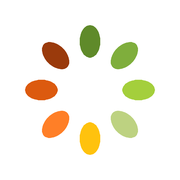
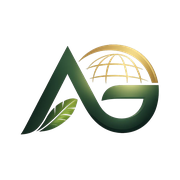
hjttps

Changed region(s): [[0.1111, 0.1389, 0.8889, 0.8611]]

diff --git a/client/src/lib/seo.js b/client/src/lib/seo.js
@@ -4,19 +4,19 @@ export const SITE = 'https://agriglobal.co.in';
 export const BRAND = 'Agri Global';
 
 const PAGES = {
-  '/': ['Agri Global | Buy & Sell Indian Rice Online | Trade Finance', 'Agri Global is a B2B marketplace to buy and sell Indian basmati and non-basmati rice, with verified partners, trade finance and the Africa – India – Middle East trade corridor.'],
-  '/marketplace': ['Buy Indian Rice Online: Basmati, PR 14, Sharbati, Sona Masoori', 'Browse 22 export-grade Indian rice varieties with live offers, grain specs and per-tonne prices. Post a requirement and get quotes from verified sellers.'],
+  '/': ['Agri Global | Global Agri Commodity Trade & Finance Platform', 'Agri Global is a global B2B marketplace to buy, sell and finance agricultural commodities, starting with rice, with verified partners and trade finance across Asia, Africa and the Middle East.'],
+  '/marketplace': ['Buy Rice Online: Basmati, PR 14, Sharbati, Sona Masoori', 'Browse 22 export-grade rice varieties with live offers, grain specs and per-tonne prices. Post a requirement and get quotes from verified sellers.'],
   '/finance': ['Trade Finance for Agri Exporters: LC, BG, SBLC & Invoice Financing', 'Compare trade finance quotes for letters of credit, bank guarantees, SBLCs and invoice financing from participating banks on Agri Global.'],
   '/lenders': ['For Banks & NBFCs: Agri Trade Finance Deal Flow', 'Reach verified agri-commodity traders and originate trade finance deals with AI-driven risk scoring on Agri Global.'],
   '/tools': ['Free Agri Trade Calculators & Counterparty Scorecards', 'Free rice export calculators, landed-cost tools and counterparty risk scorecards for buyers, sellers and traders.'],
   '/prompts': ['AI Prompts for Agri Trade, Sourcing & Finance', 'Ready-to-use AI prompts for sourcing rice, drafting offers, vetting counterparties and preparing trade finance requests.'],
-  '/partner': ['Become a Trade Partner | Agri Global', 'Partner with Agri Global to bring buyers, sellers and financiers onto the platform across the Africa – India – Middle East corridor.'],
+  '/partner': ['Become a Trade Partner | Agri Global', 'Partner with Agri Global to bring buyers, sellers and financiers onto the platform across our global trade corridor.'],
   '/join': ['Join Agri Global as a Buyer, Seller or Partner', 'Create a free account to buy rice, list your stock, or join as a partner, AgroPreneur or lender.'],
-  '/for-buyers': ['For Rice Buyers: Verified Indian Suppliers & Transparent Pricing', 'Source Indian rice from KYB-verified sellers with transparent pricing, digital documentation and optional trade finance.'],
+  '/for-buyers': ['For Rice Buyers: Verified Suppliers & Transparent Pricing', 'Source rice and agri commodities from KYB-verified sellers with transparent pricing, digital documentation and optional trade finance.'],
   '/for-sellers': ['For Rice Sellers & Exporters: Reach Global Buyers', 'List your rice, reach buyers across Africa and the Middle East, and get paid with trade finance support on Agri Global.'],
   '/agropreneur': ['AgroPreneurs: Empowering Women in Agri Trade', 'Agri Global’s AgroPreneur programme equips women entrepreneurs with market access, training and trade tools.'],
   '/platform': ['The Agri Global Platform: Marketplace, Finance & Intelligence', 'One platform for agri-commodity trading, trade finance, market intelligence and verified counterparties.'],
-  '/corridor': ['Africa – India – Middle East Digital Trade Corridor', 'Trade rice and grains across 30 countries in the Africa – India – Middle East digital trade corridor.'],
+  '/corridor': ['Global Digital Trade Corridor: Asia, Africa & Middle East', 'Trade rice and grains across 30 countries in the Asia – Africa – Middle East digital trade corridor.'],
   '/trust': ['Trust & Verification: KYB, KYC and AI Risk Scoring', 'How Agri Global verifies buyers and sellers with KYB and KYC checks and AI-driven risk scoring.'],
   '/fraud-prevention': ['Fraud Prevention in Agri Trade | Agri Global', 'Practical guidance and platform safeguards to avoid fraud in international agri-commodity trading.'],
   '/technology': ['Technology: AI-Driven Agri Trade Platform', 'The technology behind Agri Global: AI-driven matching, risk scoring, digital documentation and market intelligence.'],
@@ -26,7 +26,7 @@ const PAGES = {
   '/manifesto': ['Our Manifesto: The Future of Agriculture Is the System', 'Why Agri Global believes the future of agriculture is not just in the soil, but in the system.'],
   '/sustainability': ['Sustainability | Agri Global', 'How Agri Global supports sustainable, fair and inclusive agri trade for farmers and traders.'],
   '/livelihood': ['Farmer Livelihoods | Agri Global', 'Improving farmer livelihoods through fair market access and transparent pricing.'],
-  '/contact': ['Contact Agri Global | Ahmedabad, India', 'Get in touch with Agri Global to buy or sell rice, request a quote or discuss trade finance. Registered office in Ahmedabad, Gujarat.'],
+  '/contact': ['Contact Agri Global', 'Get in touch with Agri Global to buy or sell rice, request a quote or discuss trade finance. Registered office in Ahmedabad, Gujarat.'],
   '/documents': ['Company Registrations & Certificates | Agri Global', 'Registration details and certificates of Agrimaati Ecosystem Private Limited, which develops Agri Global.'],
   '/privacy': ['Privacy Policy | Agri Global', 'How Agri Global collects, uses and protects your personal data.'],
   '/terms': ['Terms & Conditions | Agri Global', 'The terms for using the Agri Global platform.'],
@@ -62,7 +62,7 @@ export function seoFor(path) {
 export function productSeo(p) {
   const kind = p.family === 'Basmati' ? 'Basmati' : 'Non-Basmati';
   return {
-    title: `${p.name} Export from India | ${kind} Rice ${p.grain?.length ? `${Number(p.grain.length).toFixed(2)} mm ` : ''}| ${BRAND}`.replace(/\s+\|/g, ' |'),
+    title: `${p.name} Export | ${kind} Rice ${p.grain?.length ? `${Number(p.grain.length).toFixed(2)} mm ` : ''}| ${BRAND}`.replace(/\s+\|/g, ' |'),
     description: `Buy ${p.name} (${kind}, ${p.processing}) from India. ${p.grain?.length ? `Average grain length ${Number(p.grain.length).toFixed(2)} mm, ` : ''}under ${p.grain?.broken ?? 2}% broken. FOB, CIF and CNF offers from verified exporters on ${BRAND}.`,
     path: `/rice/${p.slug}`,
   };

diff --git a/client/src/pages/Home.jsx b/client/src/pages/Home.jsx
@@ -51,12 +51,12 @@ export default function Home() {
   const shown = items.filter((p) => inGroup(p, fam)).slice(0, 4);
 
   const strip = [
-    ['leaf', items.length, '', 'Rice varieties'], ['globe', corridor.value, '', 'AIM countries'], ['people', ROLES.length, '', 'Stakeholder types'],
+    ['leaf', items.length, '', 'Rice varieties'], ['globe', corridor.value, '', 'Corridor countries'], ['people', ROLES.length, '', 'Stakeholder types'],
     ['calc', CALCS.length + SCORES.length, '', 'Free tools'], ['spark', PROMPTS.length, '', 'AI prompt templates'], ['sprout', women.value, women.suffix || 'M', 'Women AgroPreneurs (target)'],
   ];
   const audience = [
-    ['For Buyers', 'cart', 'Source verified Indian rice with transparent pricing & finance.', '/join?role=buyer', 'port', 'port'],
-    ['For Sellers', 'store', 'Access global buyers and get pre/post-shipment finance.', '/join?role=seller', 'sellers', 'rice'],
+    ['For Buyers', 'cart', 'Source verified agri commodities from trusted origins, with transparent pricing & finance.', '/join?role=buyer', 'port', 'port'],
+    ['For Sellers', 'store', 'Reach buyers in every region and get pre/post-shipment finance.', '/join?role=seller', 'sellers', 'rice'],
     ['For Global Partners', 'handshake', 'Own the buyer relationship and earn 25–40.5% margin.', '/partner', 'partners', 'people'],
     ['For AgroPreneurs', 'sprout', 'Aggregate from farmers, get training, finance and market linkage.', '/join?role=agropreneur', 'agropreneur', 'people'],
   ];
@@ -68,23 +68,23 @@ export default function Home() {
         <div className="hero-map">
           <Suspense fallback={null}><SatelliteMap /></Suspense>
           {/* on phones the map sits in the middle of the page, so the AIM card lives on it (the desktop card is hidden there) */}
-          <div className="aim aim-m"><Icon n="globe" size={34} /><div><b>AIM Corridor</b><span>India ↔ Africa ↔ Middle East</span><small>{corridor.value} Countries • Growing</small></div></div>
+          <div className="aim aim-m"><Icon n="globe" size={34} /><div><b>Global Corridor</b><span>Asia ↔ Africa ↔ Middle East</span><small>{corridor.value} Countries • Growing</small></div></div>
         </div>
         <Photo name="hero-port" scene="port" alt="" className="hero-port" />
         <div className="hero-in">
           <div className="hero-copy2">
             <p className="kick">The AI-Powered Global Agri Trade &amp; Finance Platform</p>
-            <h1>From Indian Farms to Global Markets</h1>
-            <p className="sub">Trade, Finance, Source and Grow — all in one platform for agricultural commodities, starting with Indian Rice.</p>
+            <h1>Global Agri Trade, Simplified.</h1>
+            <p className="sub">Source, trade, finance and grow: one trusted platform connecting farmers, exporters, buyers and banks worldwide. Starting with rice, expanding to grains, pulses, spices and oilseeds.</p>
             <div className="cta-row">
               <Link to="/marketplace" className="hbtn solid">Explore Marketplace<Icon n="arrow" size={18} /></Link>
               <Link to="/join?role=partner" className="hbtn light">Join as Partner</Link>
             </div>
             <ul className="checks"><li><Icon n="check" size={14} />Verified Buyers &amp; Sellers</li><li><Icon n="check" size={14} />Trade Finance (LC, BG, SBLC)</li><li><Icon n="check" size={14} />End-to-End Trade Support</li></ul>
           </div>
-          <div className="hero-woman"><Photo name="hero-woman" scene="people" tone="woman" alt="Smiling woman farmer holding freshly harvested rice" /></div>
+          <div className="hero-woman"><Photo name="hero-woman" scene="people" tone="woman" alt="Woman farmer tending a young green rice crop" /></div>
         </div>
-        <div className="aim"><Icon n="globe" size={34} /><div><b>AIM Corridor</b><span>India ↔ Africa ↔ Middle East</span><small>{corridor.value} Countries • Growing</small></div></div>
+        <div className="aim"><Icon n="globe" size={34} /><div><b>Global Corridor</b><span>Asia ↔ Africa ↔ Middle East</span><small>{corridor.value} Countries • Growing</small></div></div>
       </section>
 
       <Finder />
@@ -151,13 +151,13 @@ export default function Home() {
           <Link to="/tools?tool=trust" className="sc"><Icon n="check" size={26} /><div><h3>Trust Score</h3><p>A clear, explainable view of who you’re trading with.</p></div><span>Assess your Trust Score →</span></Link>
           <Link to="/tools?tool=credit" className="sc"><Icon n="bank" size={26} /><div><h3>Credit Score</h3><p>A transparent view of trade-level financial readiness.</p></div><span>Assess your Credit Score →</span></Link>
         </div>
-        <p className="accred">Accredited by <b>DPIIT</b>, <b>MCA</b> and India’s oldest chambers of commerce: <b>ICC</b> and <b>SGCCI</b>.</p>
+        <p className="accred">Recognised by <b>DPIIT</b>, <b>MCA</b> and leading chambers of commerce: <b>ICC</b> and <b>SGCCI</b>.</p>
       </section>
 
       <section className="mission">
         <Icon n="sprout" size={44} />
         <h2>Our Mission</h2>
-        <p>Empower 1 Million Women AgroPreneurs <i>•</i> Build a Trusted AIM Trade Corridor <i>•</i> Make Agri Trade Simple, Inclusive &amp; Transparent.</p>
+        <p>Empower 1 Million Women AgroPreneurs <i>•</i> Build a Trusted Global Trade Corridor <i>•</i> Make Agri Trade Simple, Inclusive &amp; Transparent.</p>
         <Link to="/join?role=agropreneur" className="hbtn light">Learn About Our Impact<Icon n="arrow" size={16} /></Link>
       </section>
     </>

diff --git a/client/index.html b/client/index.html
@@ -3,30 +3,31 @@
   <head>
     <meta charset="UTF-8" />
     <meta name="viewport" content="width=device-width, initial-scale=1.0, viewport-fit=cover" />
-    <meta name="theme-color" content="#1d6b3a" />
-    <meta name="description" content="Agri Global is a B2B marketplace to buy and sell Indian basmati and non-basmati rice, with verified partners, trade finance and the Africa – India – Middle East trade corridor." />
-    <meta name="keywords" content="buy rice online, Indian basmati rice exporters, rice export India, 1121 basmati, PR 14 rice, sona masoori, parboiled rice, agri trade finance, B2B rice marketplace" />
+    <meta name="theme-color" content="#1f5a34" />
+    <meta name="description" content="Agri Global is a global B2B marketplace to buy, sell and finance agricultural commodities, starting with rice, with verified partners and trade finance across Asia, Africa and the Middle East." />
+    <meta name="keywords" content="buy rice online, global agri commodity marketplace, basmati rice exporters, rice export, 1121 basmati, PR 14 rice, sona masoori, parboiled rice, agri trade finance, B2B rice marketplace" />
     <meta name="robots" content="index, follow, max-image-preview:large" />
     <meta name="author" content="Agrimaati Ecosystem Private Limited" />
     <link rel="canonical" href="https://agriglobal.co.in/" />
     <meta property="og:type" content="website" />
     <meta property="og:site_name" content="Agri Global" />
     <meta property="og:locale" content="en_IN" />
-    <meta property="og:title" content="Agri Global | Buy & Sell Indian Rice Online | Trade Finance" />
-    <meta property="og:description" content="B2B marketplace for Indian basmati and non-basmati rice, with verified partners and trade finance." />
+    <meta property="og:title" content="Agri Global | Global Agri Commodity Trade & Finance Platform" />
+    <meta property="og:description" content="Global B2B marketplace for agricultural commodities, starting with rice. Verified partners and trade finance." />
     <meta property="og:url" content="https://agriglobal.co.in/" />
     <meta property="og:image" content="https://agriglobal.co.in/images/hero-woman.jpg" />
     <meta name="twitter:card" content="summary_large_image" />
-    <meta name="twitter:title" content="Agri Global | Buy & Sell Indian Rice Online" />
-    <meta name="twitter:description" content="B2B marketplace for Indian basmati and non-basmati rice, with verified partners and trade finance." />
+    <meta name="twitter:title" content="Agri Global | Global Agri Commodity Trade & Finance" />
+    <meta name="twitter:description" content="Global B2B marketplace for agricultural commodities, starting with rice. Verified partners and trade finance." />
     <meta name="twitter:image" content="https://agriglobal.co.in/images/hero-woman.jpg" />
-    <script type="application/ld+json">{"@context":"https://schema.org","@graph":[{"@type":"Organization","@id":"https://agriglobal.co.in/#org","name":"Agri Global","legalName":"Agrimaati Ecosystem Private Limited","url":"https://agriglobal.co.in/","logo":"https://agriglobal.co.in/icon-512.png","address":{"@type":"PostalAddress","streetAddress":"204, Saumya Square, Nr. Govardhan Party Plot, Thaltej, Daskroi","addressLocality":"Ahmedabad","addressRegion":"Gujarat","postalCode":"380059","addressCountry":"IN"}},{"@type":"WebSite","@id":"https://agriglobal.co.in/#site","url":"https://agriglobal.co.in/","name":"Agri Global","publisher":{"@id":"https://agriglobal.co.in/#org"}}]}</script>
-    <link rel="icon" type="image/svg+xml" href="/favicon.svg" />
+    <script type="application/ld+json">{"@context":"https://schema.org","@graph":[{"@type":"Organization","@id":"https://agriglobal.co.in/#org","name":"Agri Global","legalName":"Agrimaati Ecosystem Private Limited","url":"https://agriglobal.co.in/","logo":"https://agriglobal.co.in/logo-mark.png","address":{"@type":"PostalAddress","streetAddress":"204, Saumya Square, Nr. Govardhan Party Plot, Thaltej, Daskroi","addressLocality":"Ahmedabad","addressRegion":"Gujarat","postalCode":"380059","addressCountry":"IN"}},{"@type":"WebSite","@id":"https://agriglobal.co.in/#site","url":"https://agriglobal.co.in/","name":"Agri Global","publisher":{"@id":"https://agriglobal.co.in/#org"}}]}</script>
+    <link rel="icon" href="/favicon.ico" sizes="48x48" />
+    <link rel="icon" type="image/png" href="/favicon.png" sizes="96x96" />
     <link rel="apple-touch-icon" href="/apple-touch-icon.png" />
     <link rel="preconnect" href="https://fonts.googleapis.com" />
     <link rel="preconnect" href="https://fonts.gstatic.com" crossorigin />
     <link href="https://fonts.googleapis.com/css2?family=Plus+Jakarta+Sans:wght@300;400;500;600;700;800&family=JetBrains+Mono:wght@400;600&display=swap" rel="stylesheet" />
-    <title>Agri Global | Buy &amp; Sell Indian Rice Online | Trade Finance</title>
+    <title>Agri Global | Global Agri Commodity Trade &amp; Finance Platform</title>
   </head>
   <body>
     <div id="root"></div>

diff --git a/client/src/lib/content.js b/client/src/lib/content.js
@@ -36,7 +36,7 @@ export const ABOUT = {
   ],
   vision: [
     'To build the world’s most trusted agri-trade infrastructure: one that connects markets, unlocks finance and uplifts communities.',
-    'As we expand across India, the Middle East, Africa and key trade corridors, our focus stays clear: empower businesses, enable global trade, and create opportunities for millions of farmers and women entrepreneurs.',
+    'As we expand across Asia, the Middle East, Africa and key trade corridors worldwide, our focus stays clear: empower businesses, enable global trade, and create opportunities for millions of farmers and women entrepreneurs.',
   ],
 };
 
@@ -246,7 +246,7 @@ export const AGRO = {
     ['What support will I get to set up my business?', 'End-to-end support: business model development, regulatory compliance guidance, access to suppliers, branding and go-to-market strategy.'],
     ['How will I find buyers?', 'Through our market-linkage platform you are connected to domestic and international buyers, with help networking with wholesalers, retailers and institutional buyers.'],
   ],
-  note: 'If you are outside India and want to sell through us, join as a Global Trading Partner.',
+  note: 'If you are outside our home market and want to sell through us, join as a Global Trading Partner.',
 };
 
 // ---- Finance ----
@@ -308,7 +308,7 @@ export const RICE = {
     ['Is this rice suitable for export?', 'Yes. It is sourced from ISO and HACCP-compliant mills and inspected to export-quality standards.'],
     ['Are bulk and private-label options available?', 'Yes. Customised packaging and branding are available for bulk orders.'],
     ['Can I request samples before a bulk order?', 'Yes. Use the request form on this page and mention that you need samples.'],
-    ['Which regions import Indian steam rice the most?', 'The Middle East, Africa, Europe and North America are major importers.'],
+    ['Which regions import steam rice the most?', 'The Middle East, Africa, Europe and North America are major importers.'],
   ],
 };
 
@@ -364,11 +364,32 @@ export const REGISTRY = { SETTINGS, COMPANY, ABOUT, WHY, TEAM, MANIFESTO, SUSTAI
 // Snapshot of the built-in text, taken before any admin overrides are applied.
 export const DEFAULTS = JSON.parse(JSON.stringify(REGISTRY));
 
-// Catalogue photos (Wikimedia Commons, CC licensed; see public/images/products/CREDITS.txt).
+// Catalogue photos (Wikimedia Commons, CC licensed; see public/images/products/CREDITS.txt). One per variety, shared only where the pool runs out.
+const PRODUCT_IMAGES = {
+  "1121-steam-basmati-rice-8-35-mm": "basmati-pot",
+  "1121-golden-sella-basmati-rice-8-35-mm": "parboiled",
+  "1121-white-sella-basmati-rice-8-35-mm": "basmati-bowl",
+  "1509-steam-basmati-rice-8-40-mm": "longgrain",
+  "1509-golden-sella-basmati-rice-8-40-mm": "steam-yellow",
+  "1509-white-sella-basmati-rice-8-40-mm": "basmati-field",
+  "1718-steam-basmati-rice-8-40-mm": "jasmine",
+  "1718-golden-sella-basmati-rice-8-35-mm": "parboiled",
+  "1718-white-sella-basmati-rice-8-35-mm": "longgrain",
+  "1401-steam-basmati-rice-7-70-mm": "basmati-pot",
+  "1401-white-sella-basmati-rice-7-70-mm": "basmati-bowl",
+  "pr-14-steam-6-90-mm": "longgrain",
+  "pr-14-white-sella-6-90-mm": "basmati-field",
+  "pr-14-golden-sella-6-80-mm": "steam-yellow",
+  "sharbati-steam-7-10-mm": "jasmine",
+  "sharbati-raw-7-10-mm": "longgrain",
+  "sharbati-white-sella-7-10-mm": "longgrain",
+  "sharbati-golden-sella-7-00-mm": "parboiled",
+  "sugandha-steam-rice-7-90-mm": "basmati-pot",
+  "sugandha-white-sella-7-90-mm": "basmati-bowl",
+  "sugandha-golden-sella-7-85-mm": "steam-yellow",
+  "sona-masoori-steam-5-20-mm": "sona-masoori"
+};
 export function productImage(p) {
-  const s = p.slug || '';
-  if (s.startsWith('sona-masoori')) return 'products/sona-masoori';
-  if (p.processing === 'Golden Sella') return 'products/parboiled';
-  if (p.family === 'Basmati') return s.startsWith('1121') || s.startsWith('1401') ? 'products/basmati-raw' : 'products/basmati-india';
-  return p.processing === 'Raw' ? 'products/closeup' : 'products/parboiled';
+  const f = PRODUCT_IMAGES[p.slug] || (p.processing === 'Golden Sella' ? 'steam-yellow' : p.family === 'Basmati' ? 'basmati-pot' : 'longgrain');
+  return `products/${f}`;
 }

diff --git a/client/src/index.css b/client/src/index.css
@@ -750,3 +750,31 @@ input:focus, textarea:focus, select:focus { outline: none; border-color: var(--g
 .rd-stats { display: grid; grid-template-columns: repeat(auto-fit, minmax(120px, 1fr)); gap: 12px; margin-bottom: 18px; }
 .rd-stats div { padding: 14px 16px; border-radius: 14px; background: var(--g3); }
 .rd-stats b { display: block; font-size: 1.7rem; line-height: 1.1; color: var(--g); }
+
+/* ---------- brand refresh: deep forest green + gold, taken from the new logo ---------- */
+:root {
+  --bg: #f6f8f3; --ink: #10281b; --g: #1f5a34; --g2: #143d24; --g3: #e8f0e5; --gold: #c9a24a; --gold2: #e2c26f;
+  --shadow: 0 1px 2px rgba(16, 40, 27, .06), 0 12px 32px rgba(16, 40, 27, .09);
+}
+body { letter-spacing: -.005em; }
+h1, h2, h3 { letter-spacing: -.025em; }
+.hdr { background: rgba(255, 255, 255, .86); backdrop-filter: saturate(1.4) blur(18px); border-bottom: 1px solid rgba(16, 40, 27, .08); }
+.logo .lg b { font-weight: 800; letter-spacing: .14em; font-size: 1.28rem; color: var(--g2); }
+.logo .lg i { font-weight: 600; letter-spacing: .32em; font-size: .62rem; text-transform: uppercase; margin: 4px 0 0 .1em; color: var(--gold); }
+.logo svg, .logo img { width: 44px; height: 44px; }
+.hdr .logo img { width: 42px; height: 42px; }
+.cta, .hbtn.solid { background: linear-gradient(135deg, var(--g) 0%, var(--g2) 100%); box-shadow: 0 6px 18px rgba(31, 90, 52, .28); }
+.cta:hover, .hbtn.solid:hover { background: linear-gradient(135deg, #256b3e 0%, var(--g2) 100%); }
+.hbtn, .btn, .cta, .login { border-radius: 999px; }
+.hbtn.light { background: rgba(255, 255, 255, .9); backdrop-filter: blur(6px); }
+.kick { display: inline-block; padding: 6px 14px; border-radius: 999px; background: rgba(201, 162, 74, .16); color: #7a5d17; font-size: .8rem; letter-spacing: .06em; text-transform: uppercase; }
+.hero-copy2 h1 { font-size: clamp(2.5rem, 4.2vw, 3.9rem); line-height: 1.02; background: linear-gradient(180deg, var(--g2), var(--g)); -webkit-background-clip: text; background-clip: text; color: transparent; }
+.hero2::after { background: linear-gradient(90deg, rgba(246, 248, 243, .94) 0%, rgba(246, 248, 243, .6) 40%, transparent 64%); }
+.spec, .vcard, .acard, .panelx, .t3, .sc { border: 1px solid rgba(16, 40, 27, .07); border-radius: 20px; transition: transform .35s cubic-bezier(.2, .7, .2, 1), box-shadow .35s; }
+.spec:hover, .vcard:hover, .acard:hover { transform: translateY(-6px); box-shadow: 0 2px 4px rgba(16, 40, 27, .06), 0 24px 48px rgba(16, 40, 27, .16); }
+.spec-ph { border-radius: 20px 20px 0 0; } .spec-ph img { transition: transform .6s cubic-bezier(.2, .7, .2, 1); } .spec:hover .spec-ph img { transform: scale(1.06); }
+.hot { color: var(--g); }
+.strip { border-top: 3px solid var(--gold); }
+.tag, .itag { color: var(--gold); letter-spacing: .18em; font-weight: 800; }
+.foot { background: linear-gradient(180deg, #123422, #0b2216); }
+@media (prefers-reduced-motion: reduce) { * { transition: none !important; animation: none !important; } }

diff --git a/client/src/pages/Platform.jsx b/client/src/pages/Platform.jsx
@@ -25,7 +25,7 @@ export function Corridor() {
         <div className="icards" style={{ '--cols': 4 }}>{DTC.pillars.map(([t, items]) => <Reveal key={t} className="icard"><h3>{t}</h3><Checks items={items} /></Reveal>)}</div>
       </Sec>
       <Sec tag="THE TRUST ARCHITECTURE" title="Six ideas, one system."><Cards items={DTC.terms} /></Sec>
-      <Sec alt tag="AFRICA · INDIA · MIDDLE EAST" title="One trade corridor." lede={`The AIM corridor lists ${unique.length} countries in the Middle East and Africa, plus India.`}>
+      <Sec alt tag="AFRICA · INDIA · MIDDLE EAST" title="One trade corridor." lede={`The AIM corridor lists ${unique.length} countries in the Middle East and Africa, plus India, our first sourcing hub.`}>
         <div className="two">
           <Reveal className="panelx"><h3>Middle East ({CORRIDOR.middleEast.length})</h3><p className="tags">{CORRIDOR.middleEast.map((c) => <span key={c}>{c}</span>)}</p></Reveal>
           <Reveal className="panelx"><h3>Africa ({CORRIDOR.africa.length})</h3><p className="tags">{CORRIDOR.africa.map((c) => <span key={c}>{c}</span>)}</p></Reveal>
@@ -112,7 +112,7 @@ export function Agropreneur() {
     <>
       <Hero tag="AGROPRENEUR PROGRAM" title="Your gateway to global markets." lede="We simplify the challenges of selling agricultural commodities with trusted global connections. Learn agricultural entrepreneurship with our 2-month free training." actions={[['Sign up', '/join?role=agropreneur'], ['Export income calculator', '/tools?tool=export', true]]} />
       <Sec tag="WHAT YOU GET" title="Training, setup and funding."><Cards items={AGRO.features} /></Sec>
-      <Sec alt tag="FOR YOU?" title="Join India’s export revolution." lede="Sell your local produce globally, store and process it, and become an agricultural exporter. The program is built for women entrepreneurs in agriculture."><p className="note">{AGRO.note}</p></Sec>
+      <Sec alt tag="FOR YOU?" title="Join the global export revolution." lede="Sell your local produce globally, store and process it, and become an agricultural exporter. The program is built for women entrepreneurs in agriculture."><p className="note">{AGRO.note}</p></Sec>
       <Sec tag="FAQ" title="Frequently asked questions."><FAQ items={AGRO.faq} /></Sec>
       <Band title="Sell your local produce globally." actions={[['Join as an AgroPreneur', '/join?role=agropreneur']]} />
     </>

diff --git a/client/src/lib/data.js b/client/src/lib/data.js
@@ -33,7 +33,7 @@ export const PROMPTS = [
   ['Finance', 'LC checklist', 'List the documents and checks needed for a letter of credit on a rice export of {amount} USD to {country}. Flag the most common discrepancies that cause rejection.'],
   ['Finance', 'Explain LC vs SBLC', 'Explain in plain language when a rice exporter should use an LC versus a standby LC (SBLC), with costs, risks and a recommendation for a {amount} USD, {tenor}-day deal.'],
   ['Finance', 'Pre-shipment finance pitch', 'Draft a one-page request to an NBFC for pre-shipment finance of {amount} USD against a confirmed order from {buyer}. Include deal summary, repayment source and risk mitigants.'],
-  ['Partner', 'Intro to local buyers', 'Write a short WhatsApp message in {language} from a trading partner introducing Indian {variety} rice to a wholesaler in {country}, with a call to action for samples.'],
+  ['Partner', 'Intro to local buyers', 'Write a short WhatsApp message in {language} from a trading partner introducing {variety} rice to a wholesaler in {country}, with a call to action for samples.'],
   ['Partner', 'Margin explainer', 'Explain to a new trading partner how a {margin}% deal margin on {volume} USD monthly volume turns into earnings at a {share}% share, using a worked example.'],
   ['Operations', 'Shipment document check', 'Review this document list for a rice shipment to {country}: {paste list}. Identify missing or inconsistent items (BL, phyto, CoO, fumigation, packing list, invoice).'],
   ['Operations', 'Quality dispute response', 'A buyer reports {issue} on a {quantity} MT shipment of {variety}. Draft a calm, factual response asking for lab reports and photos, and outlining the claim process.'],

diff --git a/client/src/pages/Auth.jsx b/client/src/pages/Auth.jsx
@@ -5,7 +5,7 @@ import { Icon, Photo } from '../components/Art.jsx';
 import { LogoMark } from '../components/Logo.jsx';
 
 const ROLES = [
-  ['buyer', 'Buyer', 'cart', 'Source verified rice from India with transparent pricing.'],
+  ['buyer', 'Buyer', 'cart', 'Source verified agri commodities from trusted origins with transparent pricing.'],
   ['seller', 'Seller', 'store', 'List offers and sell to verified global buyers.'],
   ['partner', 'Partner', 'handshake', 'Own the buyer relationship in your country and share the margin.'],
   ['agropreneur', 'AgroPreneur', 'sprout', 'Aggregate supply from farmers, with free training and funding.'],
@@ -97,7 +97,7 @@ export default function Auth() {
             <ul>
               <li><Icon n="shield" size={20} />Every buyer and seller is verified before they trade</li>
               <li><Icon n="bank" size={20} />Compare finance quotes from banks and NBFCs</li>
-              <li><Icon n="globe" size={20} />The Africa – India – Middle East corridor, in one place</li>
+              <li><Icon n="globe" size={20} />A global agri trade corridor, in one place</li>
             </ul>
             <p className="proof">Accredited by DPIIT and the ICC and SGCCI chambers of commerce</p>
           </div>

diff --git a/client/src/components/Logo.jsx b/client/src/components/Logo.jsx
@@ -1,18 +1,7 @@
 import { Link } from 'react-router-dom';
 
-// Eight grains in a ring, clockwise from the top.
-const COLORS = ['#5f8a2a', '#7fae3c', '#a4cf3c', '#bdd281', '#ffc20e', '#ff7f27', '#dc5a0f', '#9a3a0c'];
-
 export function LogoMark({ size = 38 }) {
-  return (
-    <svg viewBox="0 0 100 100" width={size} height={size} aria-hidden>
-      {COLORS.map((c, i) => {
-        const a = i * 45, r = (a * Math.PI) / 180;
-        const cx = 50 + 37.5 * Math.sin(r), cy = 50 - 37.5 * Math.cos(r);
-        return <ellipse key={i} cx={cx} cy={cy} rx="7.9" ry="12.5" fill={c} transform={`rotate(${a} ${cx} ${cy})`} />;
-      })}
-    </svg>
-  );
+  return <img src="/logo-mark.png" width={size} height={size} alt="" aria-hidden="true" decoding="async" style={{ display: 'block', objectFit: 'contain' }} />;
 }
 
 export function Logo({ to = '/' }) {

diff --git a/client/src/pages/Company.jsx b/client/src/pages/Company.jsx
@@ -32,7 +32,7 @@ export function WhyUs() {
       <Sec tag="VALUE FOR EVERY ROLE" title="Why buyers, sellers, partners & banks choose us.">
         <div className="two">{WHY.roles.map(([r, items]) => <Reveal key={r} className="panelx"><h3>{r}</h3><Checks items={items} /></Reveal>)}</div>
       </Sec>
-      <Sec alt tag="BACKED BY EXCELLENCE" title="Accredited by India’s oldest and most influential chambers of commerce.">
+      <Sec alt tag="BACKED BY EXCELLENCE" title="Backed by some of the oldest and most influential chambers of commerce.">
         <Cards items={WHY.chambers} cols={2} />
       </Sec>
       <Band title="Trust is not assumed here. It’s engineered." actions={[['Trade with trust', '/marketplace'], ['See our trust framework', '/trust', true]]} />

diff --git a/client/src/components/Header.jsx b/client/src/components/Header.jsx
@@ -47,7 +47,7 @@ const MENU = [
   ]],
   ['Platform', [
     ['Overview', '/platform', 'spark', 'Trade and finance on one platform'],
-    ['Digital Trade Corridor', '/corridor', 'compass', 'Africa · India · Middle East'],
+    ['Digital Trade Corridor', '/corridor', 'compass', 'Asia · Africa · Middle East'],
     ['Trust framework', '/trust', 'lock', 'Trust engineered into every stage'],
     ['Fraud prevention', '/fraud-prevention', 'shield', 'Layered checks, safer trades'],
     ['Technology', '/technology', 'cpu', 'AI, APIs and security'],

diff --git a/client/src/components/SatelliteMap.jsx b/client/src/components/SatelliteMap.jsx
@@ -64,5 +64,5 @@ export default function SatelliteMap() {
     ro.observe(el.current);
     return () => { ro.disconnect(); map.remove(); };
   }, []);
-  return <div ref={el} className="satmap" role="img" aria-label="Satellite map of the trade corridor between India, the Middle East and Africa" />;
+  return <div ref={el} className="satmap" role="img" aria-label="Satellite map of the trade corridor between Asia, the Middle East and Africa" />;
 }
